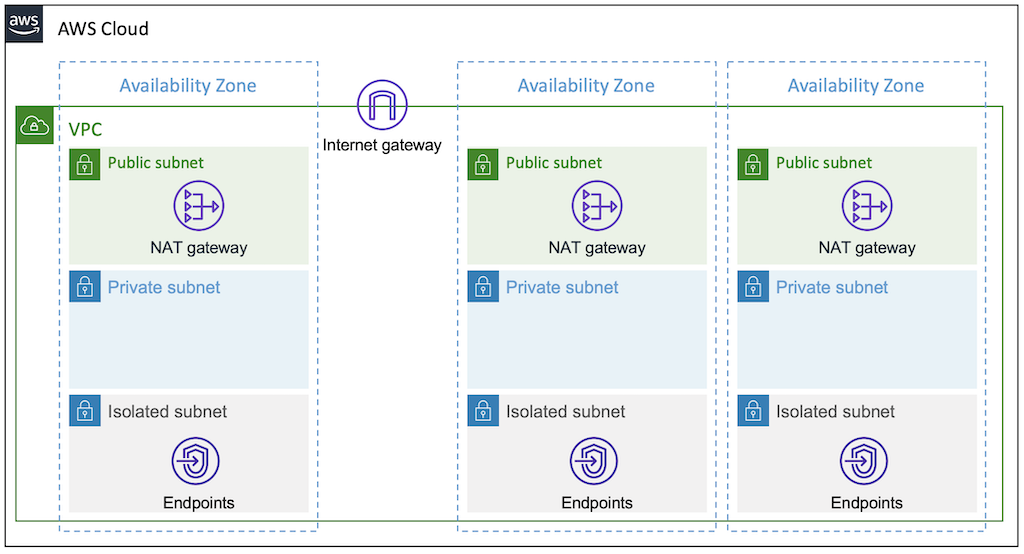
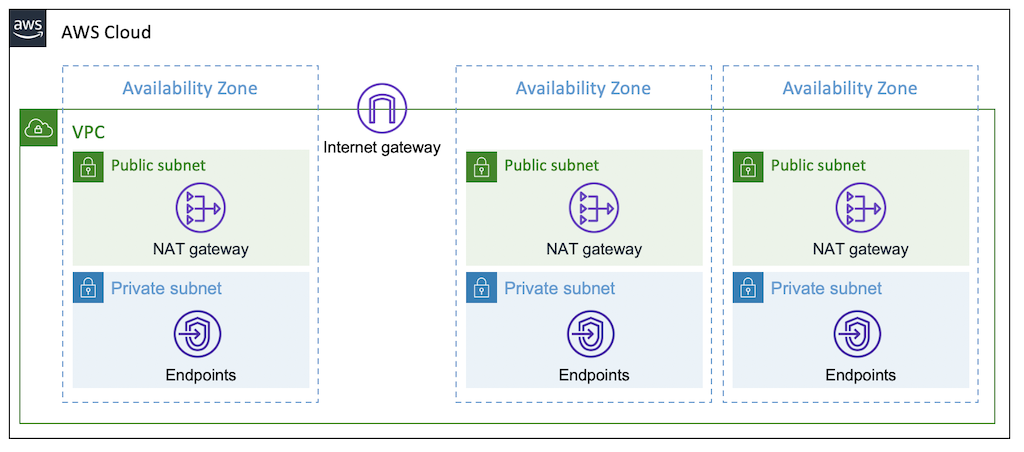
feat(vpc): feature toggle to enable/disable nat gateway (#142)
* feat(vpc): feature toggle to enable/disable nat gateway

* fix(vpc): updated the source for vpc module example

diff --git a/examples/spinnaker-aware-aws-vpc/README.md b/examples/spinnaker-aware-aws-vpc/README.md
@@ -2,7 +2,7 @@
 [Amazon Virtual Private Cloud(Amazon VPC)](https://aws.amazon.com/vpc/) is a service that lets you launch AWS resources in a logically isolated virtual network that you define. You have complete control over your virtual networking environment, including selection of your own IP address range, creation of subnets, and configuration of route tables and network gateways. You can use both IPv4 and IPv6 for most resources in your virtual private cloud, helping to ensure secure and easy access to resources and applications.
 
 ## Setup
-This is an example to explain how to build an Amazon VPC. [This](main.tf) is the example of terraform configuration file. Check out and apply it using terraform command. For more the details of the Amazon VPC module, please refer to [this](https://github.com/Young-ook/terraform-aws-spinnaker/tree/main/modules/spinnaker-aware-aws-vpc)
+This is an example to explain how to build an Amazon VPC. [This](https://github.com/Young-ook/terraform-aws-spinnaker/blob/main/examples/spinnaker-aware-aws-vpc/main.tf) is the example of terraform configuration file. Check out and apply it using terraform command.
 
 Run terraform:
 ```
@@ -14,23 +14,8 @@ Also you can use the `-var-file` option for customized paramters when you run th
 terraform plan -var-file default.tfvars
 terraform apply -var-file default.tfvars
 ```
-
-### Network Architecture
-#### Subnets
-A VPC that is made from this module consists of different thress subnets that instances can be placed into. There is the description of three subnet types:
-
-*Isolated* - isolated subnets do not route from or to the Internet, and as such do not require [NAT gateways](https://docs.aws.amazon.com/vpc/latest/userguide/vpc-nat-gateway.html). They can only connect to or be connected to from other instances in the same VPC.
-
-*Private* - instances in private subnets are not directly routable from the Internet, and connect out to the Internet via a NAT gateway. Be aware that you will be charged for NAT gateways.
-
-*Public* - public subnets connect directly to the Internet using an Internet Gateway. If you want your instances to have a public IP address and be directly reachable from the Internet, you must place them in a public subnet.
-
-#### NAT(Network Address Translation) Gateway
-The following diagram shows how to deploy a vpc with a single shared NAT gateway across the availability zones. This is a cost-effective method, but it has the weakness of causing communication problems when something goes wrong with the availability zone where the NAT gateway is located. This is good choice for development environments.
-![aws-vpc-single-shared-ngw](../../images/aws-vpc-single-shared-ngw.png)
-
-For high availability of communication between resources (instances) inside and outside your VPC, you should deploy a NAT gateway at least per Availability Zone. It is recommended to apply this configuration for production environments. By default, a NAT gateway is created in every public subnet for maximum availability.
-![aws-vpc-ngw-per-az](../../images/aws-vpc-ngw-per-az.png)
+## Network Architecture
+This module create public subnets for internet-facing connections and private subnets for internal networking. And we can disable NAT gateway(s) to make sure the instances are located in the private subnets only communicate to other instances inside VPC and AWS services via VPC endpoints. A VPC endpoint enables private connections between your VPC and supported AWS services and VPC endpoint services powered by AWS PrivateLink. AWS PrivateLink is a technology that enables you to privately access services by using private IP addresses. Traffic between your VPC and the other service does not leave the Amazon network. A VPC endpoint does not require an internet gateway, virtual private gateway, NAT device, VPN connection, or AWS Direct Connect connection. Instances in your VPC do not require public IP addresses to communicate with resources in the service. For more details, please refer to [this](https://github.com/Young-ook/terraform-aws-spinnaker/blob/main/modules/spinnaker-aware-aws-vpc).
 
 ## Clean up
 Run terraform:

diff --git a/modules/spinnaker-aware-aws-vpc/README.md b/modules/spinnaker-aware-aws-vpc/README.md
@@ -15,3 +15,21 @@ Run terraform:
 terraform init
 terraform apply
 ```
+
+### Network Architecture
+#### Subnets
+A VPC that is made from this module consists of different thress subnets that instances can be placed into. There is the description of three subnet types:
+
+*Isolated* - isolated subnets do not route from or to the Internet, and as such do not require [NAT gateways](https://docs.aws.amazon.com/vpc/latest/userguide/vpc-nat-gateway.html). They can only connect to or be connected to from other instances in the same VPC.
+![aws-vpc-isolated-subnets](../../images/aws-vpc-isolated-subnets.png)
+
+*Private* - instances in private subnets are not directly routable from the Internet, and connect out to the Internet via a NAT gateway. Be aware that you will be charged for NAT gateways.
+
+*Public* - public subnets connect directly to the Internet using an Internet Gateway. If you want your instances to have a public IP address and be directly reachable from the Internet, you must place them in a public subnet.
+
+#### NAT(Network Address Translation) Gateway
+The following diagram shows how to deploy a vpc with a single shared NAT gateway across the availability zones. This is a cost-effective method, but it has the weakness of causing communication problems when something goes wrong with the availability zone where the NAT gateway is located. This is good choice for development environments.
+![aws-vpc-single-shared-ngw](../../images/aws-vpc-single-shared-ngw.png)
+
+For high availability of communication between resources (instances) inside and outside your VPC, you should deploy a NAT gateway at least per Availability Zone. It is recommended to apply this configuration for production environments. By default, a NAT gateway is created in every public subnet for maximum availability.
+![aws-vpc-ngw-per-az](../../images/aws-vpc-ngw-per-az.png)
